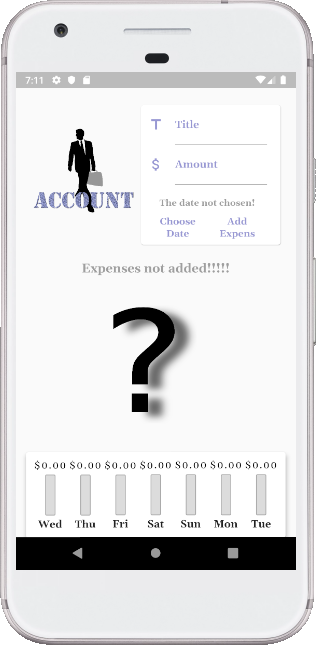
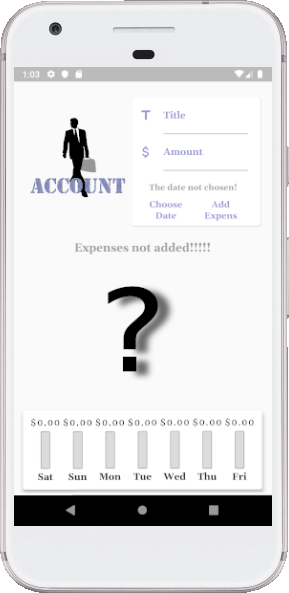
Screenshots changed

diff --git a/lib/widgets/transaction_list.dart b/lib/widgets/transaction_list.dart
@@ -30,9 +30,9 @@ class TransactionList extends StatelessWidget {
                         ),
                       ),
                       Container(
-                          margin: EdgeInsets.all(20),
+                          margin: EdgeInsets.all(25),
                           width: 150,
-                          height: MediaQuery.of(context).size.height * 0.26,
+                          height: MediaQuery.of(context).size.height * 0.23,
                           child: ShaderMask(
                               shaderCallback: (img) {
                                 return LinearGradient(
@@ -43,7 +43,8 @@ class TransactionList extends StatelessWidget {
                                 ).createShader(
                                     Rect.fromLTRB(0, 0, img.width, img.height));
                               },
-                              child: Image.asset('assets/images/question_mark.png'))),
+                              child: Image.asset('assets/images/question_mark.png',
+                              ))),
                     ],
                   );
                 },

diff --git a/lib/widgets/user_transaction.dart b/lib/widgets/user_transaction.dart
@@ -56,7 +56,7 @@ class _UserTransactionState extends State<UserTransaction> {
             Container(
               height: MediaQuery.of(context).size.height * 0.3,
               margin: EdgeInsets.only(left: 10, top: 0, right: 0, bottom: 0),
-              width: 160,
+              width: 165,
               //height: 160,
               child: Image.asset('assets/images/pic3.png'),
             ),
